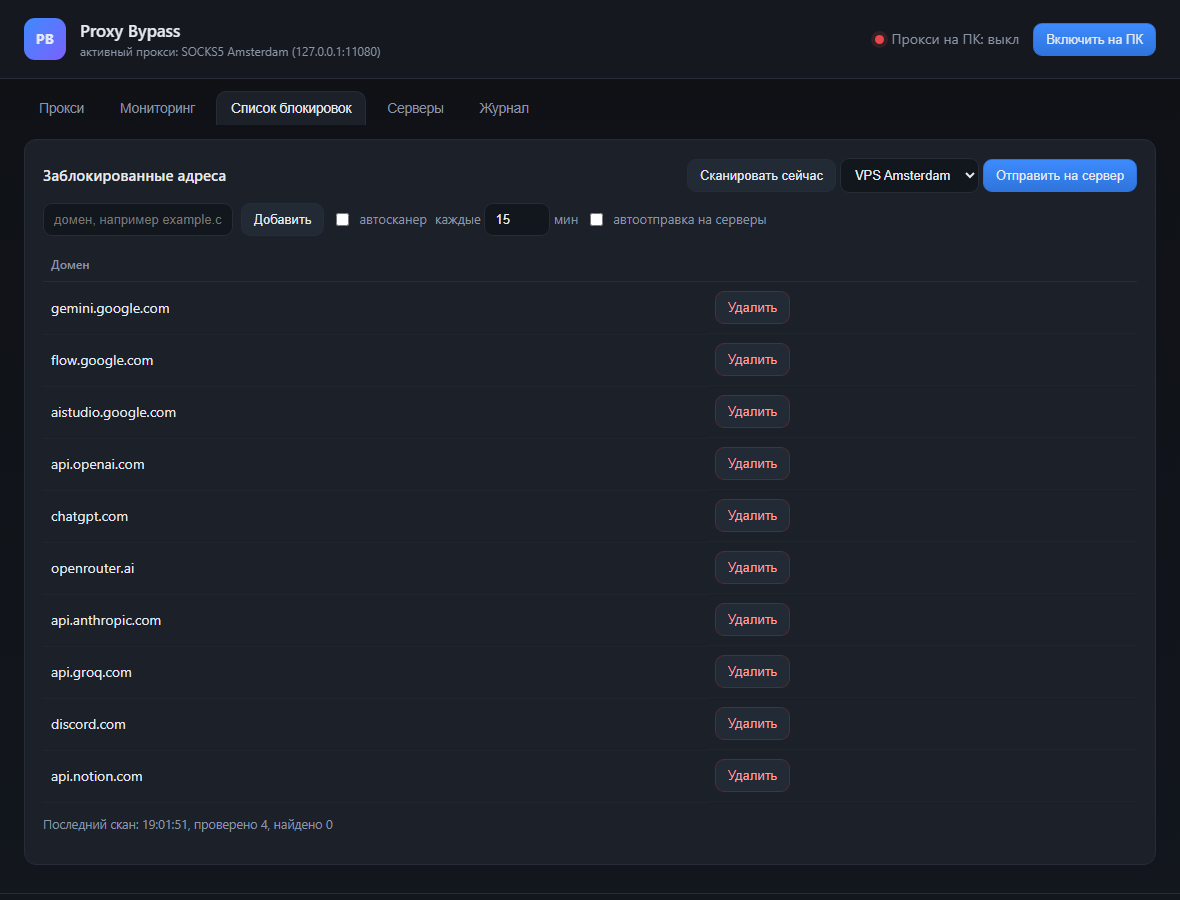
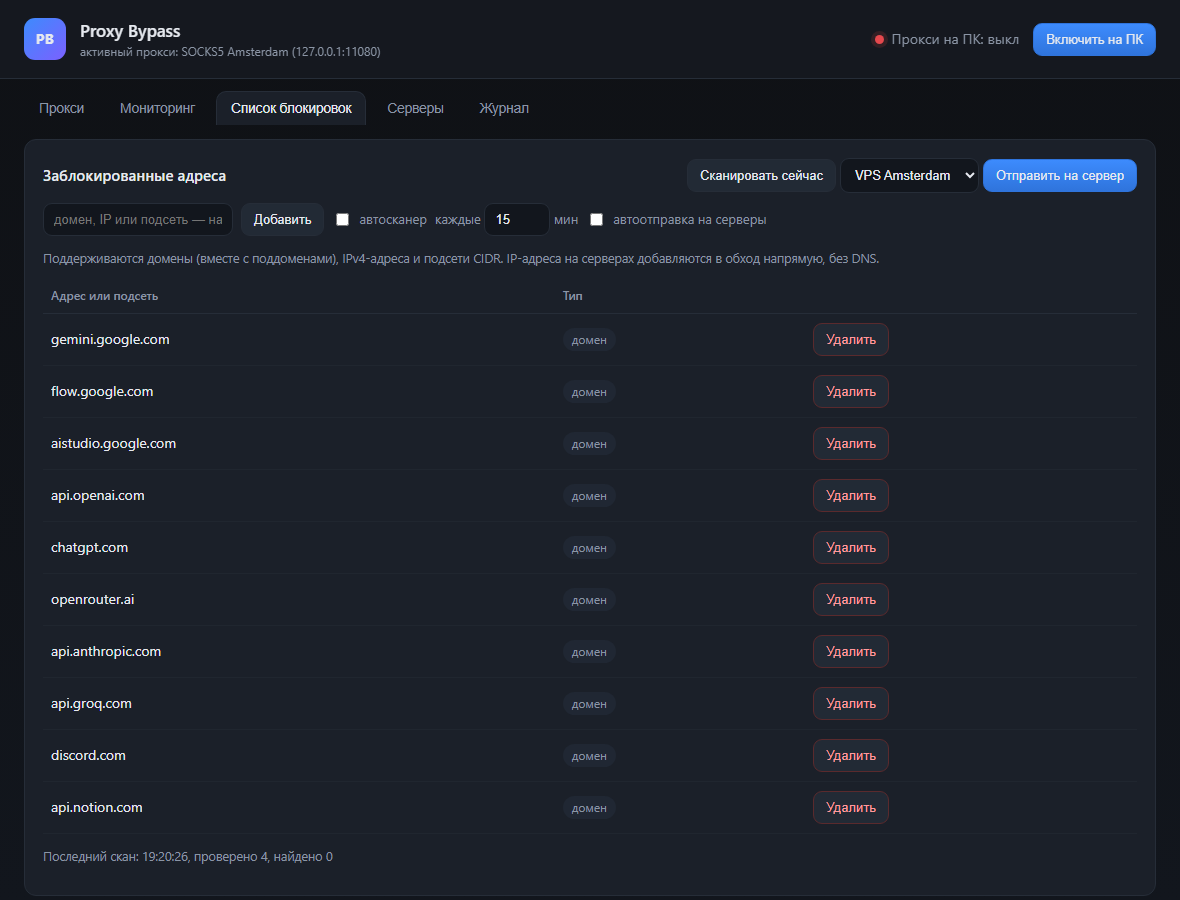
docs: refresh screenshots and version for 0.1.2

diff --git a/README.ru.md b/README.ru.md
@@ -7,7 +7,7 @@
 на Linux-серверах по SSH. Через прокси идёт только то, что действительно заблокировано,
 остальной трафик остаётся обычным.
 
-> Версия **0.1.0** — первый публичный релиз. Windows 11 (на Windows 10 тоже работает).
+> Версия **0.1.2** — текущий релиз. Windows 11 (на Windows 10 тоже работает).
 > [English documentation](README.md)
 
 ## Скриншоты

diff --git a/docs/index.md b/docs/index.md
@@ -8,7 +8,7 @@ description: Selective proxy bypass controlled from a Windows 11 PC
 Selective proxy bypass controlled from a Windows 11 PC: only resources that are actually blocked
 go through one of your SOCKS5 proxies, everything else keeps the normal connection.
 
-**Version 0.1.0** · [GitHub repository](https://github.com/storyartpro/proxy-bypass) ·
+**Version 0.1.2** · [GitHub repository](https://github.com/storyartpro/proxy-bypass) ·
 [Releases](https://github.com/storyartpro/proxy-bypass/releases)
 
 ## Start here

diff --git a/README.md b/README.md
@@ -7,7 +7,7 @@ leave through one of your SOCKS5 proxies, and manages the same bypass on your Li
 SSH. Only the resources that are actually blocked go through a proxy; everything else keeps using
 the normal connection.
 
-> Version **0.1.0** — first public release. Windows 11 (Windows 10 works too).
+> Version **0.1.2** — current release. Windows 11 (Windows 10 works too).
 > [Русская документация](README.ru.md)
 
 ## Screenshots
